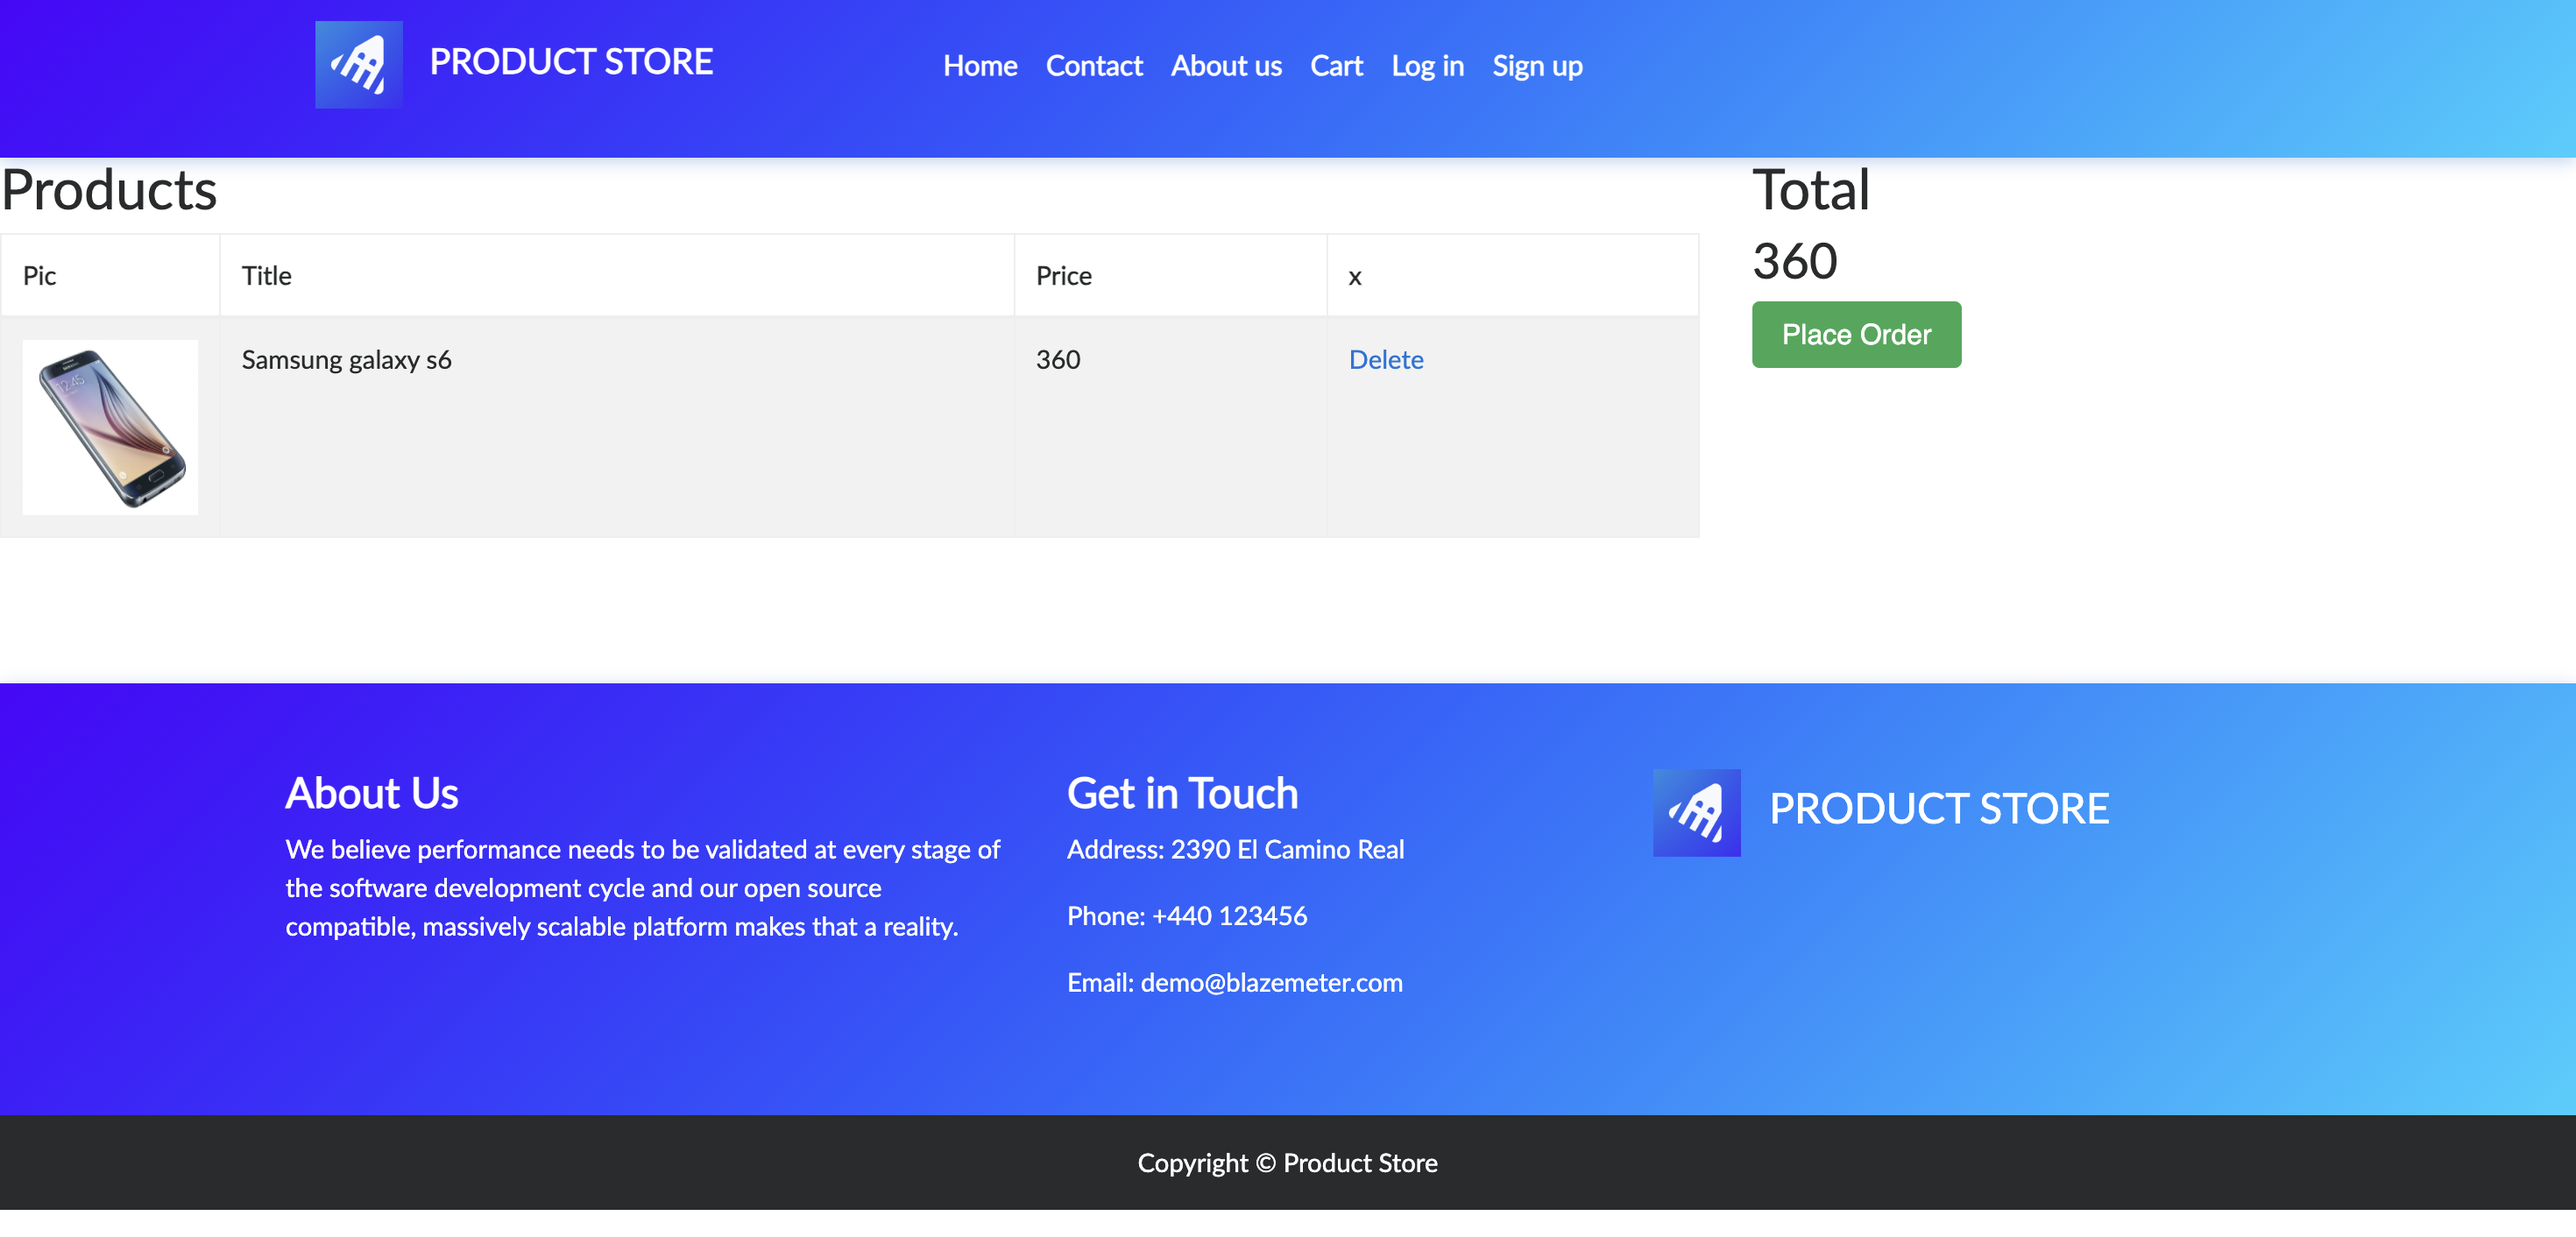
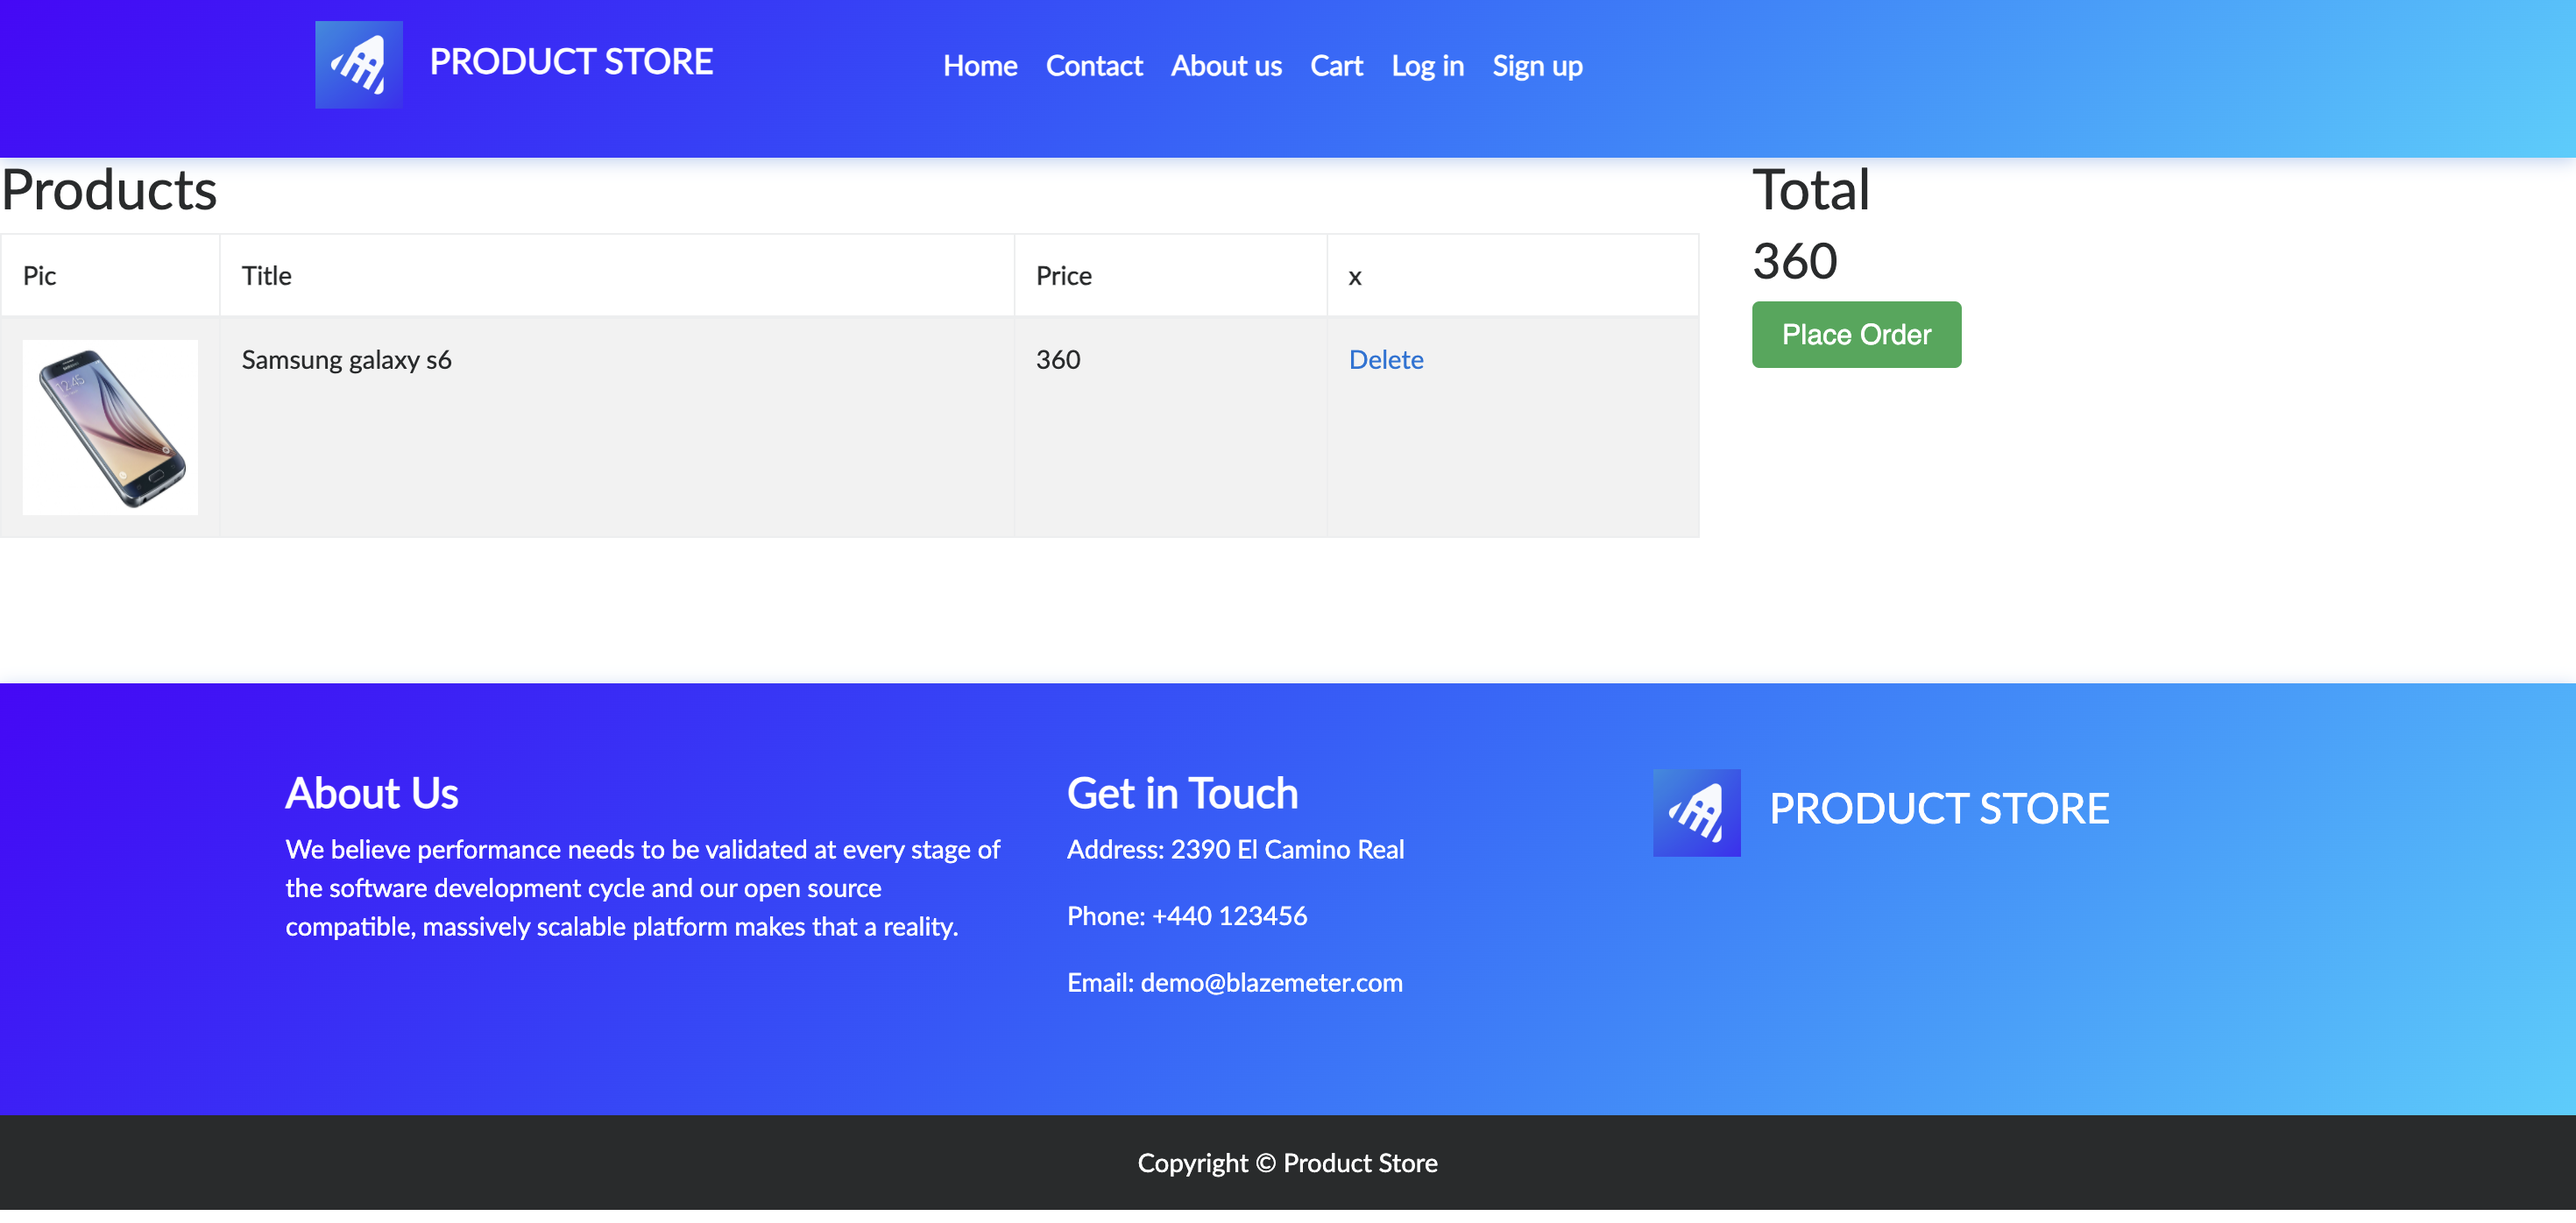
day 91 changed

diff --git a/days-91-180/day91.py b/days-91-180/day91.py
@@ -11,7 +11,7 @@ try:
     driver.get("https://www.demoblaze.com/")
     driver.maximize_window()
     print(driver.title)
-    time.sleep(2)
+
 
     # Click first product
     first_product = wait.until(EC.element_to_be_clickable(
@@ -20,7 +20,6 @@ try:
     first_product.click()
     print("Product page opened!")
     print(driver.current_url)
-    time.sleep(5)
 
     # Add to cart
     add_to_cart = wait.until(EC.element_to_be_clickable(
@@ -28,13 +27,13 @@ try:
     ))
     add_to_cart.click()
     print("Added to cart!")
-    time.sleep(2)
 
     # Handle popup alert
+    wait.until(EC.alert_is_present())
     alert = driver.switch_to.alert
     print(f"Popup message: {alert.text}")
     alert.accept()
-    time.sleep(2)
+    time.sleep(1)
 
     # Navigate to cart
     cart_link = wait.until(EC.element_to_be_clickable(
@@ -50,7 +49,6 @@ try:
     # Screenshot
     driver.save_screenshot("demoblaze_cart.png")
     print("Screenshot saved!")
-    time.sleep(2)
 
 
 except Exception as e:

diff --git a/interview-prep/q-and-a.md b/interview-prep/q-and-a.md
@@ -1,0 +1,5 @@
+## Day 91
+
+**Q:** Why would you use explicit waits instead of time.sleep()?
+
+**A:** Explicit waits check the browser continuously and move forward the moment an element appears, making tests fast and reliable. time.sleep() forces a fixed pause every time, which is slow and fragile. If a page loads in 0.5 seconds, time.sleep(5) wastes 4.5 seconds. If it takes 6 seconds, the test crashes anyway. WebDriverWait adapts to reality. 

diff --git a/README.md b/README.md
@@ -42,4 +42,3 @@ Having established strong foundations in Python, Selenium UI testing, API paymen
   * 📜 [Automation Script](./days-91-180/day91.py)
   * 📸 [Cart Verification Screenshot](./days-91-180/demoblaze_cart.png)
 
-![DemoBlaze Cart Verification](./days-91-180/demoblaze_cart.png)
